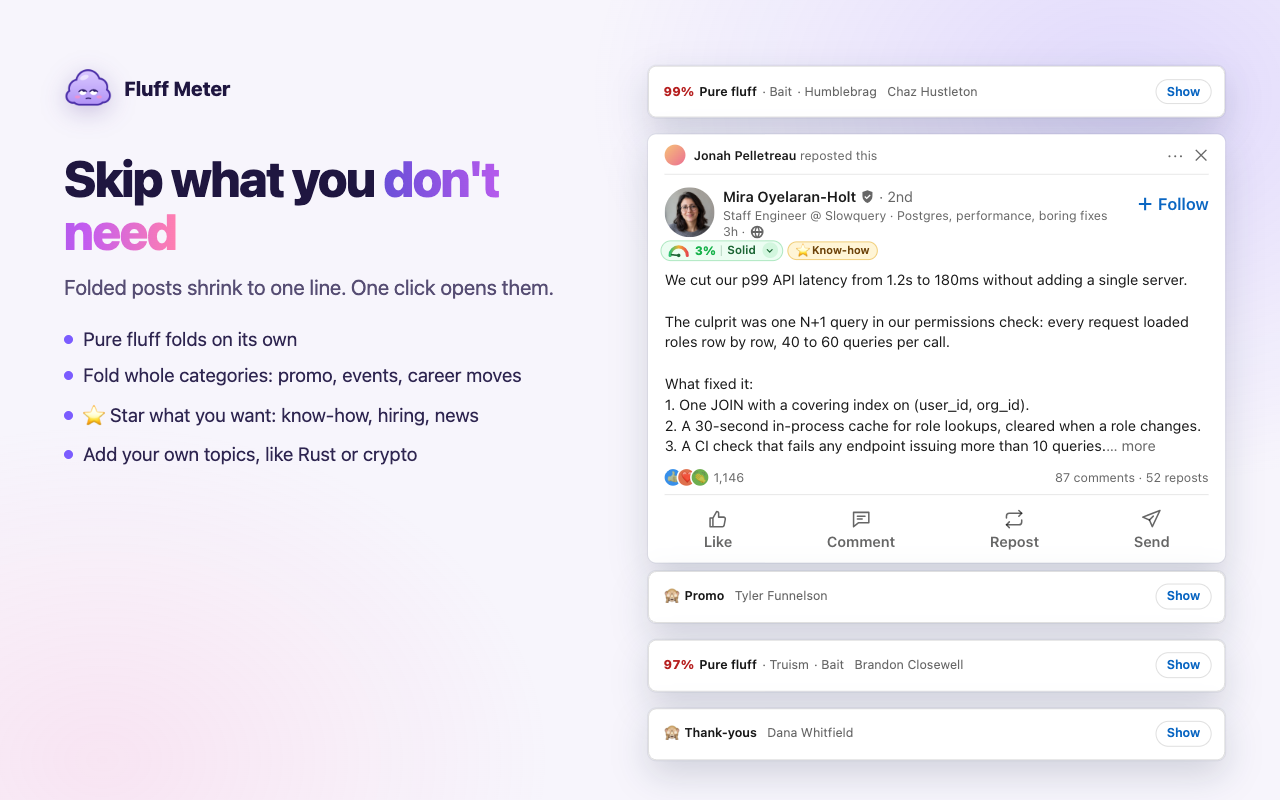
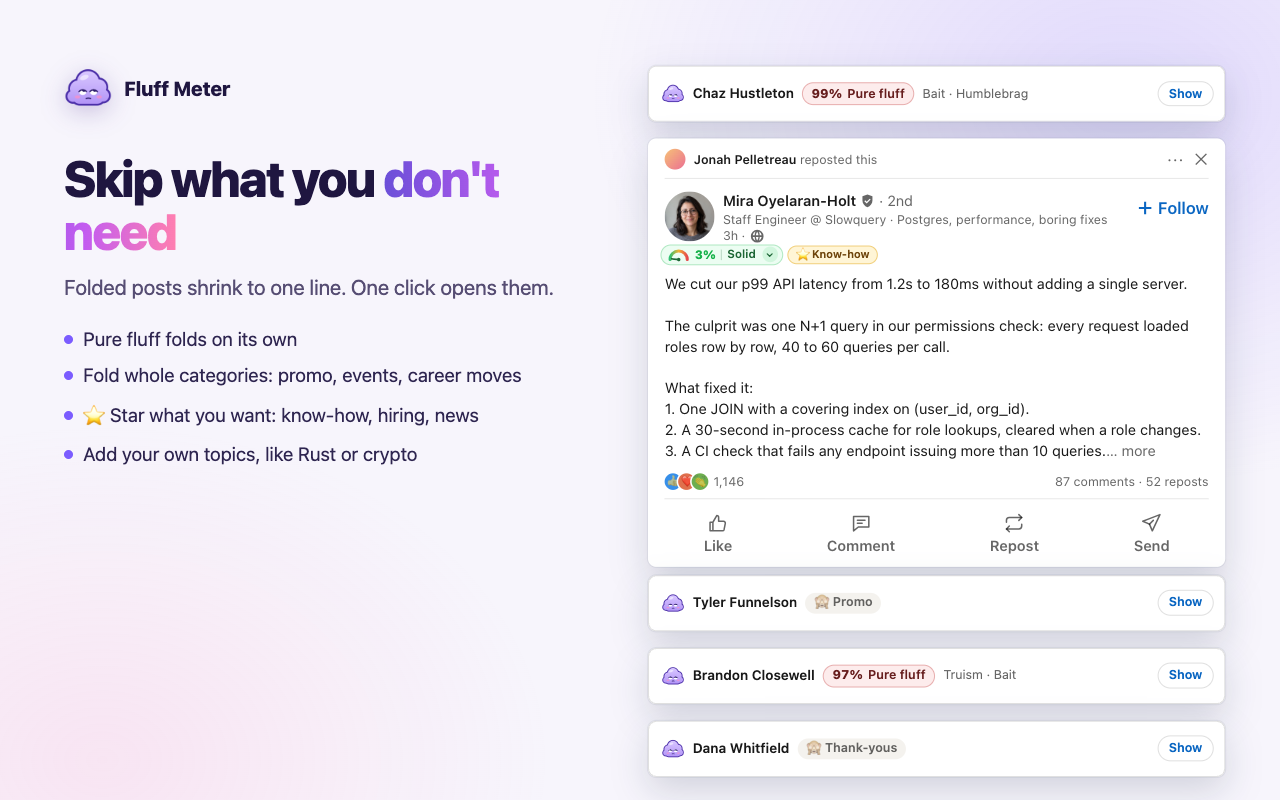
Fold in the feed only; fold bar leads with the author and the cloud
On a profile or a single post the reader came to read that post, so
badges still show but nothing folds, and such posts don't count as
folded in the stats. The fold bar now reads left to right: the cloud,
the author, the reason as a pill, the clichés, Show.

Changed region(s): [[0.5, 0.4688, 0.9688, 0.9688], [0.5, 0.0938, 0.9688, 0.4375], [0.9062, 0.25, 0.9375, 0.2812]]

diff --git a/src/lib/ui/badge.ts b/src/lib/ui/badge.ts
@@ -1,3 +1,4 @@
+import cloudSvg from "../../assets/icon.svg?raw";
 import {
   AI_TELL_LABELS,
   aiLabel,
@@ -73,6 +74,8 @@ export class Badge {
     private readonly author: string | undefined,
     private readonly onRetry: () => void,
     private readonly display: () => DisplayPrefs,
+    /** Folding only makes sense in the feed; on a profile or a single post the reader came to read. */
+    private readonly canFold: () => boolean = () => true,
   ) {
     this.host = createHost(BADGE_TAG);
     this.host.dataset.key = key;
@@ -96,7 +99,8 @@ export class Badge {
     this.host.dataset.theme = pageTheme();
     this.#shadow.replaceChildren(...(body ? [h("style", null, css), body] : []));
 
-    const fold = state.status === "done" && !revealed.has(this.key) ? view?.fold : undefined;
+    const fold =
+      state.status === "done" && !revealed.has(this.key) && this.canFold() ? view?.fold : undefined;
     if (fold && state.status === "done") this.#showFold(state.analysis, view as PersonalView, fold);
     else this.unfold();
   }
@@ -116,26 +120,27 @@ export class Badge {
     const { host, shadow } = this.#fold;
     host.dataset.theme = pageTheme();
     const verdict = verdictFor(view.index);
-    const why =
+    // Who first, then why: the reason is a pill, like the score on an open badge.
+    const reasonPill =
       reason.kind === "fluff"
-        ? [
-            h("span", { class: "score", style: `--hue:${verdict.hue}` }, `${view.index}%`),
-            h("span", { class: "label" }, verdict.label),
-            ...analysis.tropes
-              .filter((t) => !this.display().hiddenTropes.includes(t))
-              .slice(0, 2)
-              .map((t) => h("span", { class: "muted" }, `· ${TROPE_LABELS[t].label}`)),
-          ]
-        : [
-            h("span", { class: "label" }, "🙈"),
-            h(
-              "span",
-              { class: "label" },
-              reason.kind === "category"
-                ? CATEGORY_LABELS[reason.category].label
-                : `“${reason.topic}”`,
-            ),
-          ];
+        ? h(
+            "span",
+            { class: "reason reason--fluff", style: `--hue:${verdict.hue}` },
+            h("span", { class: "score" }, `${view.index}%`),
+            verdict.label,
+          )
+        : h(
+            "span",
+            { class: "reason" },
+            `🙈 ${reason.kind === "category" ? CATEGORY_LABELS[reason.category].label : `“${reason.topic}”`}`,
+          );
+    const tropes =
+      reason.kind === "fluff"
+        ? analysis.tropes
+            .filter((t) => !this.display().hiddenTropes.includes(t))
+            .slice(0, 2)
+            .map((t) => TROPE_LABELS[t].label)
+        : [];
     const show = () => {
       revealed.add(this.key);
       this.render();
@@ -147,10 +152,14 @@ export class Badge {
         {
           class: "fold",
           title:
-            reason.kind === "fluff" ? "Folded: too much fluff for you" : "Folded: you hide this",
+            reason.kind === "fluff"
+              ? "Folded by Fluff Meter: too much fluff for you"
+              : "Folded by Fluff Meter: you fold these",
         },
-        h("span", { class: "why" }, ...why),
+        cloud(),
         this.author && h("span", { class: "author" }, this.author),
+        reasonPill,
+        tropes.length > 0 && h("span", { class: "tropes" }, tropes.join(" · ")),
         h("button", { class: "show", type: "button", onclick: show }, "Show"),
       ),
     );
@@ -414,6 +423,15 @@ export class Badge {
       ),
     );
   }
+}
+
+/** The extension's icon, small, so a folded post says who folded it. */
+function cloud(): Element {
+  const svg = new DOMParser().parseFromString(cloudSvg, "image/svg+xml").documentElement;
+  svg.setAttribute("class", "cloud");
+  svg.setAttribute("aria-hidden", "true");
+  svg.querySelector("title")?.remove();
+  return document.importNode(svg, true);
 }
 
 /** A host element whose clicks never reach LinkedIn's handlers (they would open the post). */

diff --git a/src/lib/ui/fold.css b/src/lib/ui/fold.css
@@ -1,6 +1,7 @@
-/* The one-line bar that replaces a folded post. Same palette as badge.css. */
+/* The one-line bar that stands in for a folded post. Same palette as badge.css. */
 :host {
   --bg: #ffffff;
+  --surface: #f4f2ee;
   --text: rgba(0, 0, 0, 0.9);
   --muted: rgba(0, 0, 0, 0.6);
   --border: rgba(0, 0, 0, 0.12);
@@ -18,6 +19,7 @@
 
 :host([data-theme="dark"]) {
   --bg: #1b1f23;
+  --surface: #2a2f34;
   --text: rgba(255, 255, 255, 0.9);
   --muted: rgba(255, 255, 255, 0.6);
   --border: rgba(255, 255, 255, 0.15);
@@ -27,47 +29,68 @@
 .fold {
   display: flex;
   align-items: center;
-  gap: 10px;
-  min-height: 36px;
-  padding: 6px 12px 6px 14px;
+  gap: 8px;
+  min-height: 40px;
+  padding: 6px 10px 6px 12px;
   border: 1px solid var(--border);
   border-radius: 8px;
   background: var(--bg);
 }
 
-.why {
-  display: inline-flex;
-  flex-wrap: wrap;
-  align-items: baseline;
-  gap: 5px;
+.cloud {
+  flex: none;
+  width: 22px;
+  height: 22px;
+}
+
+.author {
+  flex: 0 1 auto;
   min-width: 0;
+  overflow: hidden;
+  text-overflow: ellipsis;
+  white-space: nowrap;
+  font-size: 13px;
+  font-weight: 600;
+}
+
+.reason {
+  display: inline-flex;
+  flex: none;
+  align-items: center;
+  gap: 5px;
+  height: 20px;
+  padding: 0 8px;
+  border-radius: 999px;
+  background: var(--surface);
+  color: var(--muted);
+  font-weight: 600;
+  white-space: nowrap;
+}
+
+.reason--fluff {
+  border: 1px solid hsl(var(--hue) 55% 80%);
+  color: hsl(var(--hue) 55% 26%);
+  background: hsl(var(--hue) 85% 96%);
+}
+
+:host([data-theme="dark"]) .reason--fluff {
+  border-color: hsl(var(--hue) 35% 32%);
+  color: hsl(var(--hue) 60% 86%);
+  background: hsl(var(--hue) 30% 17%);
 }
 
 .score {
   font-weight: 800;
   font-variant-numeric: tabular-nums;
-  color: hsl(var(--hue) 70% 42%);
 }
 
-:host([data-theme="dark"]) .score {
-  color: hsl(var(--hue) 80% 66%);
-}
-
-.label {
-  font-weight: 600;
-}
-
-.muted,
-.author {
-  color: var(--muted);
-}
-
-.author {
-  flex: 1;
+.tropes {
+  flex: 0 3 auto;
   min-width: 0;
   overflow: hidden;
   text-overflow: ellipsis;
   white-space: nowrap;
+  color: var(--muted);
 }
 
 .show {

diff --git a/src/lib/analyzer.ts b/src/lib/analyzer.ts
@@ -24,7 +24,7 @@ export class Analyzer {
 
   constructor(private readonly getSettings: () => Promise<Settings>) {}
 
-  async analyze(post: PostInput): Promise<Analysis> {
+  async analyze(post: PostInput, foldable = true): Promise<Analysis> {
     if (isZeroFluff(post.author)) return legendAnalysis();
     const settings = await this.getSettings();
     const mode = modeOf(settings);
@@ -44,7 +44,7 @@ export class Analyzer {
       );
       await putCached(hash, analysis);
       // Posts about a tragedy get no badge, so they don't count towards the feed's fluff either.
-      if (!analysis.sensitive) await this.#recordStats(analysis, settings);
+      if (!analysis.sensitive) await this.#recordStats(analysis, settings, foldable);
       return analysis;
     })();
     this.#inflight.set(hash, job);
@@ -55,7 +55,7 @@ export class Analyzer {
     }
   }
 
-  #recordStats(analysis: Analysis, settings: Settings): Promise<void> {
+  #recordStats(analysis: Analysis, settings: Settings, foldable: boolean): Promise<void> {
     const view = personalView(analysis, settings.display);
     this.#statsWrite = this.#statsWrite
       .then(async () =>
@@ -65,7 +65,7 @@ export class Analyzer {
             analysis,
             new Date(),
             view.index,
-            !!view.fold,
+            foldable && !!view.fold,
           ),
         ),
       )

diff --git a/src/entrypoints/linkedin.content.ts b/src/entrypoints/linkedin.content.ts
@@ -1,6 +1,7 @@
 import type { PostInput } from "@/lib/analysis/types";
 import { hashText } from "@/lib/hash";
 import { type FoundPost, findPosts } from "@/lib/linkedin/extract";
+import { isFeedPath } from "@/lib/linkedin/selectors";
 import { RemoteError, send } from "@/lib/messages";
 import { type PublicSettings, publicSettingsItem } from "@/lib/settings";
 import { BADGE_TAG, Badge, type BadgeState, FOLD_TAG, FOLDED_ATTR } from "@/lib/ui/badge";
@@ -58,7 +59,11 @@ export default defineContentScript({
     const analyze = async (key: string, post: PostInput) => {
       setState(key, { status: "loading" });
       try {
-        const analysis = await send({ type: "analyze", post });
+        const analysis = await send({
+          type: "analyze",
+          post,
+          foldable: isFeedPath(location.pathname),
+        });
         const provider = settings.mode.kind === "live" ? settings.mode.provider : undefined;
         setState(key, { status: "done", analysis, ...(provider ? { provider } : {}) });
       } catch (err) {
@@ -74,6 +79,7 @@ export default defineContentScript({
         authorName,
         () => void analyze(key, post),
         () => settings.display,
+        () => isFeedPath(location.pathname),
       );
       anchor.before(badge.host);
       const set = badges.get(key) ?? new Set();

diff --git a/tests/extract.test.ts b/tests/extract.test.ts
@@ -1,5 +1,6 @@
 import { beforeEach, describe, expect, it } from "vitest";
 import { cleanText, findPosts, profileId } from "@/lib/linkedin/extract";
+import { isFeedPath } from "@/lib/linkedin/selectors";
 import fixture from "./fixtures/feed.html?raw";
 
 describe("findPosts", () => {
@@ -79,5 +80,15 @@ describe("profileId", () => {
     expect(profileId("https://www.linkedin.com/in/Jane-Doe-1/?x=y")).toBe("in:jane-doe-1");
     expect(profileId("/company/acme/posts")).toBe("company:acme");
     expect(profileId("/feed/update/1")).toBeUndefined();
+  });
+});
+
+describe("isFeedPath", () => {
+  it("folds in the feed only, not on profiles or single posts", () => {
+    expect(isFeedPath("/feed/")).toBe(true);
+    expect(isFeedPath("/feed")).toBe(true);
+    expect(isFeedPath("/feed/update/urn:li:activity:123/")).toBe(false);
+    expect(isFeedPath("/in/jane-doe/recent-activity/all/")).toBe(false);
+    expect(isFeedPath("/in/jane-doe/")).toBe(false);
   });
 });

diff --git a/src/lib/messages.ts b/src/lib/messages.ts
@@ -2,7 +2,9 @@ import { browser } from "#imports";
 import type { Analysis, AnalysisErrorCode, PostInput } from "./analysis/types";
 
 /** Every message the background worker answers. Content scripts and the popup are the senders. */
-export type Request = { type: "analyze"; post: PostInput } | { type: "test-key"; apiKey: string };
+export type Request =
+  /** `foldable`: the post is in the feed, where folding applies (it counts in the stats). */
+  { type: "analyze"; post: PostInput; foldable?: boolean } | { type: "test-key"; apiKey: string };
 
 interface ResponseData {
   analyze: Analysis;

diff --git a/src/lib/linkedin/selectors.ts b/src/lib/linkedin/selectors.ts
@@ -38,3 +38,11 @@ export const SELECTORS = {
     '[role="dialog"]',
   ].join(","),
 } as const;
+
+/**
+ * Posts are folded in the feed only. On someone's profile or a single post (`/feed/update/…`)
+ * the reader came to see exactly that, so badges show but nothing folds.
+ */
+export function isFeedPath(path: string): boolean {
+  return path.startsWith("/feed") && !path.startsWith("/feed/update");
+}

diff --git a/src/entrypoints/background.ts b/src/entrypoints/background.ts
@@ -10,7 +10,7 @@ export default defineBackground(() => {
   async function handle(request: Request): Promise<unknown> {
     switch (request.type) {
       case "analyze":
-        return analyzer.analyze(request.post);
+        return analyzer.analyze(request.post, request.foldable ?? true);
       case "test-key":
         return pingJev(createClient(request.apiKey));
     }

diff --git a/CHANGELOG.md b/CHANGELOG.md
@@ -13,8 +13,9 @@ what it is about, and only you know which ones you want.
   Thank-yous, Hiring, Job hunt, Events, Promo, Humor, Other. Mark each ⭐ want or 🙈 fold, or
   leave it unmarked. Plain "thanks X, Y and Z" posts are Thank-yous, not humblebrags.
 - Your topics: up to three of your own, like "Rust" or "crypto", to star or fold.
-- Folding: pure fluff (or fluffy too, or never) and hidden categories shrink to one line with a
-  Show button. The popup counts folded posts and the time they saved.
+- Folding: pure fluff (or fluffy too, or never) and hidden categories shrink to one line: the
+  author, why it was folded and a Show button. Only in the feed; on a profile or a single post
+  nothing folds. The popup counts folded posts and the time they saved.
 - Posts are scored further ahead, and each post that comes into range starts the next two, so
   badges and folds are ready before you scroll to them.
 - Posts about a loss, a war or an illness get no badge and don't count in the stats.
